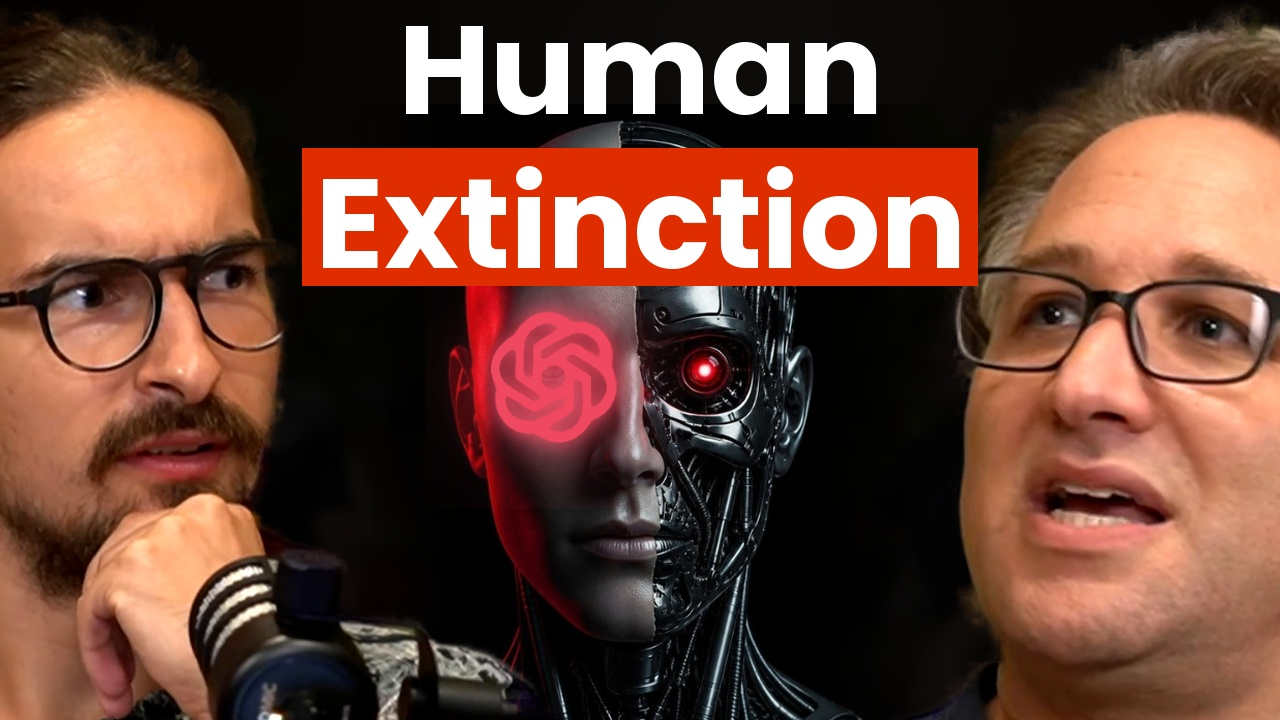
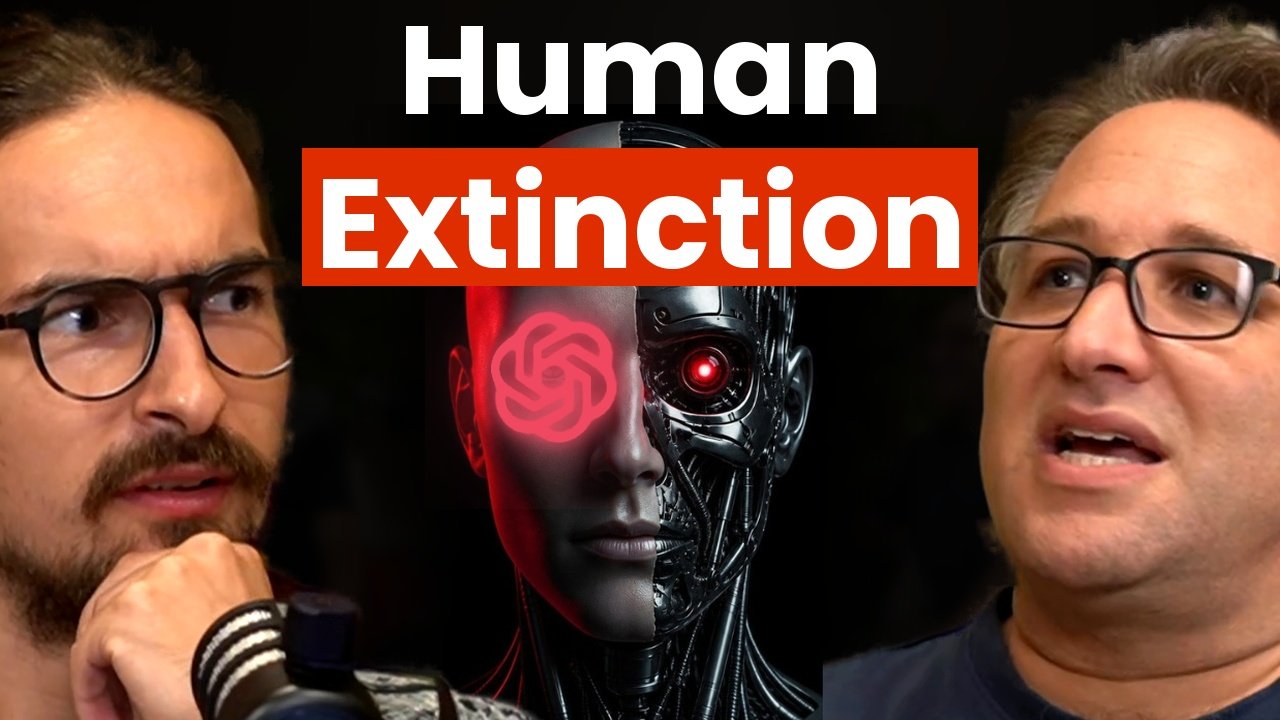
Kopfgroessen ausgeglichen: hochschieben statt vergroessern
Seine Korrektur war richtig. Ich hatte Aaronsons Kopf groesser gezogen, bis
der Scheitel oben anstiess - damit wurde er 16 Prozent groesser als Yannick.
Gewollt war, ihn hochzuschieben.

kopf_setzen() nimmt jetzt scheitel_y statt augen_y: die Oberkante wird
gesetzt, die Augenhoehe daraus gerechnet. Beide Koepfe behalten dieselbe
Groesse und werden trotzdem oben gleich angeschnitten. Aaronson steht auf
box_h 470, Yannick auf 495.

Festgehalten, dass Groessen am Pupillenabstand verglichen gehoeren und nicht
an der Rahmenhoehe: die haengt von Frisur und Kopfhaltung ab, der
Pupillenabstand nicht. Seine DOAC-Vorlage hat rechts zu links 1,043, dieses
Thumbnail jetzt 1,018. Vorher waren es 1,10.

Seine Schulter bleibt unten rechts im Bild.

diff --git a/video/thumbnail_bau.py b/video/thumbnail_bau.py
@@ -101,13 +101,26 @@ def gesicht_messen(png):
 
 
 def kopf_setzen(leinwand, png, ziel, kontrast=1.14, helligkeit=1.06):
-    """ziel: dict mit augen_x, augen_y, box_h — die gemessenen Vorlagenwerte.
+    """ziel: dict mit augen_x, box_h und entweder augen_y oder scheitel_y.
+
+    **`scheitel_y` ist meist das richtige Mass.** Zwei Koepfe auf dieselbe
+    Gesichtsrahmenhoehe zu bringen heisst nicht, dass sie gleich im Bild
+    sitzen: der Abstand Scheitel-zu-Auge haengt von Kopfhaltung und Abstand
+    zur Kamera ab. Bei gleicher Rahmenhoehe lag Yannicks Scheitel bei y = 11
+    und Aaronsons bei y = 71. Mit `scheitel_y` wird die Oberkante gesetzt und
+    die Augenhoehe daraus gerechnet — die Koepfe werden oben gleich
+    angeschnitten, ohne dass einer groesser gezogen werden muss.
 
     Kontrast und Helligkeit leicht angehoben: in seinen Vorlagen steht das
     Gesicht hart vor dem abgesoffenen Hintergrund, das Kamerabild kommt
     flacher aus der Aufnahme. Nur die Farbkanaele, die Maske bleibt wie sie ist.
     """
     ax, ay, bh = gesicht_messen(png)
+    k_vor = ziel['box_h'] / bh
+    if 'scheitel_y' in ziel:
+        al = np.asarray(Image.open(png))[:, :, 3] > 40
+        oben = int(np.nonzero(al.sum(1) > 6)[0][0])
+        ziel = dict(ziel, augen_y=ziel['scheitel_y'] + (ay - oben) * k_vor)
     im = Image.open(png).convert('RGBA')
     if kontrast != 1.0 or helligkeit != 1.0:
         farbe, maske = im.convert('RGB'), im.getchannel('A')

diff --git a/video/thumbnails.md b/video/thumbnails.md
@@ -251,10 +251,24 @@ seiner den Rand ausreizte. Nachgemessen: bei gleichem YuNet-Rahmen
 nach Kopfhaltung und Abstand zur Kamera. Der Gesichtsrahmen misst das nicht
 mit.
 
-**Die Abhilfe:** die Kopfhöhe so wählen, dass **der Scheitel bei beiden an
-derselben Stelle** landet. Für Aaronson hiess das `box_h` 531 statt 426.
-Rechnung: `box_h = (ziel_augen_y − ziel_scheitel_y) / (augen_y − alpha_oben)
-× gemessene_box_h`.
+**Die falsche Abhilfe, die ich zuerst nahm:** den Kopf grösser ziehen, bis
+der Scheitel oben anstösst. Damit wurde Aaronson um 16 % grösser als Yannick,
+und das fiel sofort auf: *„Scotts Kopf ist fast doppelt so gross wie meiner."*
+
+**Die richtige Abhilfe: den Kopf hochschieben, nicht vergrössern.**
+`kopf_setzen()` nimmt dafür `scheitel_y` statt `augen_y` — die Oberkante wird
+gesetzt, die Augenhöhe daraus gerechnet. Beide Köpfe dürfen dieselbe Grösse
+behalten und werden trotzdem oben gleich angeschnitten.
+
+**Grössen vergleicht man am Pupillenabstand, nicht an der Rahmenhöhe.** Die
+Rahmenhöhe hängt von Frisur und Kopfhaltung ab, der Pupillenabstand nicht.
+
+| | links | rechts | Verhältnis |
+|---|---:|---:|---:|
+| seine DOAC-Vorlage 2 | 138,2 | 144,1 | **1,043** |
+| dieses Thumbnail | 142,0 | 144,5 | **1,018** |
+
+Rechts darf also **minimal grösser** sein als links, aber nicht mehr.
 
 ### Hände freistellen
 
